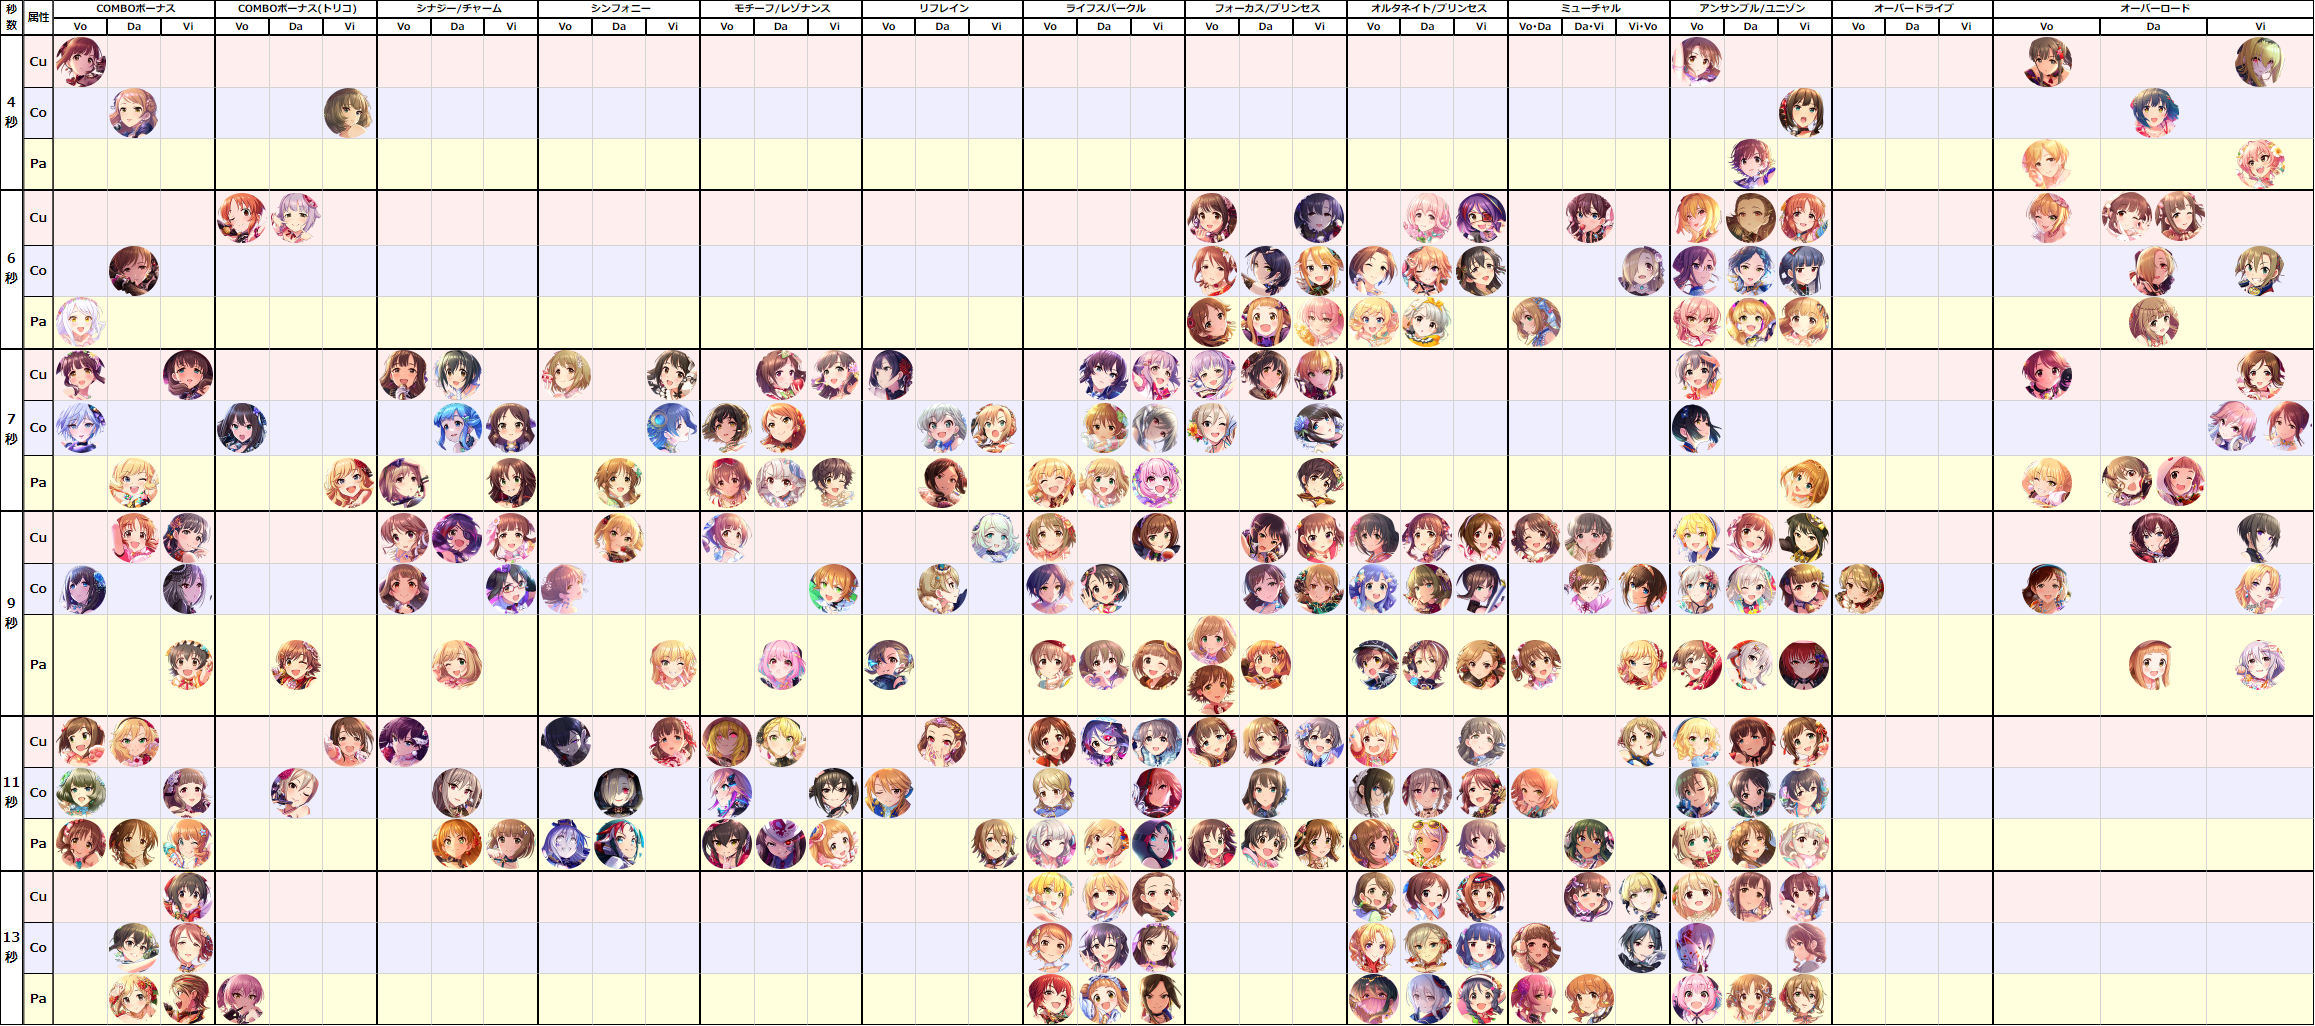
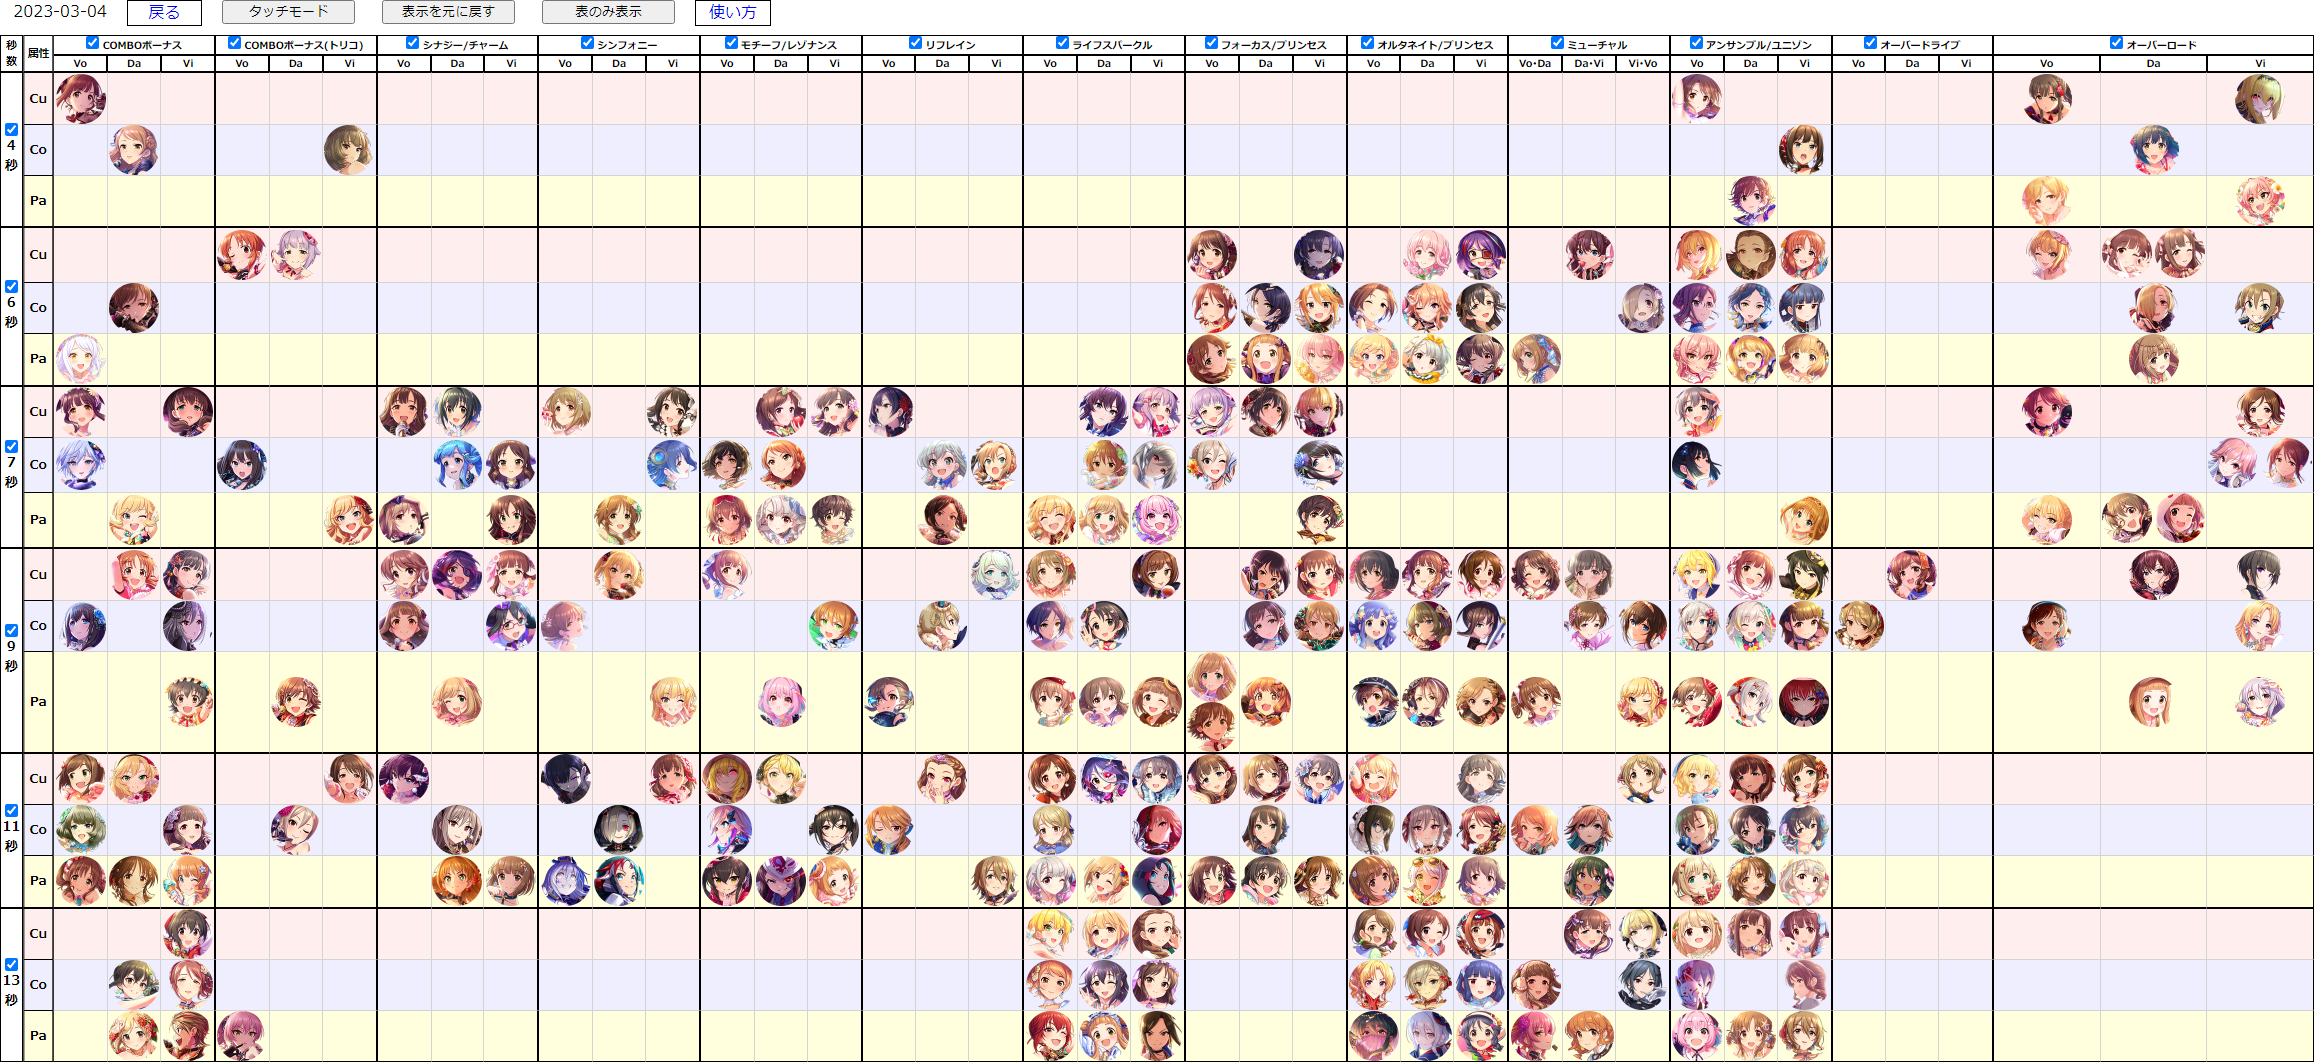
2023-03-04

diff --git a/detail.html b/detail.html
@@ -774,7 +774,7 @@
 <a href="cards/300787.html?v=pi.oEX3." target="card" onclick="return clickLink(event, this, 'c300787');"><span><img id="c300787" class="face" src="images/card_300788_circle.png"/></span></a>
 </span></td>
 <td class="item r  time6 skill8 pa"><span class="item">
-&nbsp;
+<a href="cards/301181.html?v=1IcD0eFi" target="card" onclick="return clickLink(event, this, 'c301181');"><span><img id="c301181" class="face" src="images/card_301182_circle.png"/></span></a>
 </span></td>
 <td class="item l  time6 skill9 pa"><span class="item">
 <a href="cards/301099.html?v=pgfsBl6U" target="card" onclick="return clickLink(event, this, 'c301099');"><span><img id="c301099" class="face" src="images/card_301100_circle.png"/></span></a>
@@ -1282,7 +1282,7 @@
 &nbsp;
 </span></td>
 <td class="item m  time9 skill11 cu"><span class="item">
-&nbsp;
+<a href="cards/101207.html?v=36DUn3vC" target="card" onclick="return clickLink(event, this, 'c101207');"><span><img id="c101207" class="face" src="images/card_101208_circle.png"/></span></a>
 </span></td>
 <td class="item r  time9 skill11 cu"><span class="item">
 &nbsp;
@@ -1746,7 +1746,7 @@
 <a href="cards/201121.html?v=y2Yo9V1j" target="card" onclick="return clickLink(event, this, 'c201121');"><span><img id="c201121" class="face" src="images/card_201122_circle.png"/></span></a>
 </span></td>
 <td class="item m  time11 skill9 co"><span class="item">
-&nbsp;
+<a href="cards/201249.html?v=RCj5kDb4" target="card" onclick="return clickLink(event, this, 'c201249');"><span><img id="c201249" class="face" src="images/card_201250_circle.png"/></span></a>
 </span></td>
 <td class="item r  time11 skill9 co"><span class="item">
 &nbsp;

diff --git a/cards/201249.html b/cards/201249.html
@@ -1,0 +1,42 @@
+<!DOCTYPE HTML PUBLIC "-//W3C//DTD HTML 4.01 Transitional//EN" "http://www.w3.org/TR/html4/loose.dtd">
+<html lang="ja">
+  <head>
+    <base href="../">
+    <meta http-equiv="Content-Type" content="text/html; charset=UTF-8">
+    <meta http-equiv="Content-Style-Type" content="text/css">
+    <link rel="stylesheet" type="text/css" media="all" href="cgss.css?v=rC9oa.H4">
+    <script type="text/javascript" src="common.js?v=K62H5M5W"></script>
+    <title>card:201249</title>
+  </head>
+  <body>
+<table class="card">
+  <tr>
+    <td colspan="4" class="card-name"><span class="word">［ネバーエンド・ブレイズ］</span><span class="word">二宮飛鳥</span></td>
+  </tr>
+  <tr>
+    <th class="card-value">Life</th>
+    <td class="card-value">&nbsp;40</td>
+    <th class="card-spec">条件</th>
+    <td class="card-spec">&nbsp;-</td>
+  </tr>
+  <tr>
+    <th class="card-value">Vo</th>
+    <td class="card-value">&nbsp;44</td>
+    <th class="card-spec">間隔</th>
+    <td class="card-spec">&nbsp;11秒</td>
+  </tr>
+  <tr>
+    <th class="card-value">Da</th>
+    <td class="card-value">&nbsp;6241</td>
+    <th class="card-spec">確率</th>
+    <td class="card-spec">&nbsp;中確率</td>
+  </tr>
+  <tr>
+    <th class="card-value">Vi</th>
+    <td class="card-value">&nbsp;6091</td>
+    <th class="card-spec">期間</th>
+    <td class="card-spec">&nbsp;かなりの間&nbsp</td>
+  </tr>
+</table>
+  </body>
+</html>

diff --git a/cards/301181.html b/cards/301181.html
@@ -1,0 +1,42 @@
+<!DOCTYPE HTML PUBLIC "-//W3C//DTD HTML 4.01 Transitional//EN" "http://www.w3.org/TR/html4/loose.dtd">
+<html lang="ja">
+  <head>
+    <base href="../">
+    <meta http-equiv="Content-Type" content="text/html; charset=UTF-8">
+    <meta http-equiv="Content-Style-Type" content="text/css">
+    <link rel="stylesheet" type="text/css" media="all" href="cgss.css?v=rC9oa.H4">
+    <script type="text/javascript" src="common.js?v=K62H5M5W"></script>
+    <title>card:301181</title>
+  </head>
+  <body>
+<table class="card">
+  <tr>
+    <td colspan="4" class="card-name"><span class="word">［五行相克・陰陽ぱわー］</span><span class="word">堀裕子</span></td>
+  </tr>
+  <tr>
+    <th class="card-value">Life</th>
+    <td class="card-value">&nbsp;40</td>
+    <th class="card-spec">条件</th>
+    <td class="card-spec">&nbsp;-</td>
+  </tr>
+  <tr>
+    <th class="card-value">Vo</th>
+    <td class="card-value">&nbsp;3069</td>
+    <th class="card-spec">間隔</th>
+    <td class="card-spec">&nbsp;6秒</td>
+  </tr>
+  <tr>
+    <th class="card-value">Da</th>
+    <td class="card-value">&nbsp;3696</td>
+    <th class="card-spec">確率</th>
+    <td class="card-spec">&nbsp;中確率</td>
+  </tr>
+  <tr>
+    <th class="card-value">Vi</th>
+    <td class="card-value">&nbsp;5627</td>
+    <th class="card-spec">期間</th>
+    <td class="card-spec">&nbsp;わずかな間&nbsp</td>
+  </tr>
+</table>
+  </body>
+</html>

diff --git a/cards/101207.html b/cards/101207.html
@@ -1,0 +1,42 @@
+<!DOCTYPE HTML PUBLIC "-//W3C//DTD HTML 4.01 Transitional//EN" "http://www.w3.org/TR/html4/loose.dtd">
+<html lang="ja">
+  <head>
+    <base href="../">
+    <meta http-equiv="Content-Type" content="text/html; charset=UTF-8">
+    <meta http-equiv="Content-Style-Type" content="text/css">
+    <link rel="stylesheet" type="text/css" media="all" href="cgss.css?v=rC9oa.H4">
+    <script type="text/javascript" src="common.js?v=K62H5M5W"></script>
+    <title>card:101207</title>
+  </head>
+  <body>
+<table class="card">
+  <tr>
+    <td colspan="4" class="card-name"><span class="word">［艶猫娘々］</span><span class="word">前川みく</span></td>
+  </tr>
+  <tr>
+    <th class="card-value">Life</th>
+    <td class="card-value">&nbsp;40</td>
+    <th class="card-spec">条件</th>
+    <td class="card-spec">&nbsp;-</td>
+  </tr>
+  <tr>
+    <th class="card-value">Vo</th>
+    <td class="card-value">&nbsp;3004</td>
+    <th class="card-spec">間隔</th>
+    <td class="card-spec">&nbsp;9秒</td>
+  </tr>
+  <tr>
+    <th class="card-value">Da</th>
+    <td class="card-value">&nbsp;5703</td>
+    <th class="card-spec">確率</th>
+    <td class="card-spec">&nbsp;高確率</td>
+  </tr>
+  <tr>
+    <th class="card-value">Vi</th>
+    <td class="card-value">&nbsp;3664</td>
+    <th class="card-spec">期間</th>
+    <td class="card-spec">&nbsp;しばらくの間&nbsp</td>
+  </tr>
+</table>
+  </body>
+</html>
